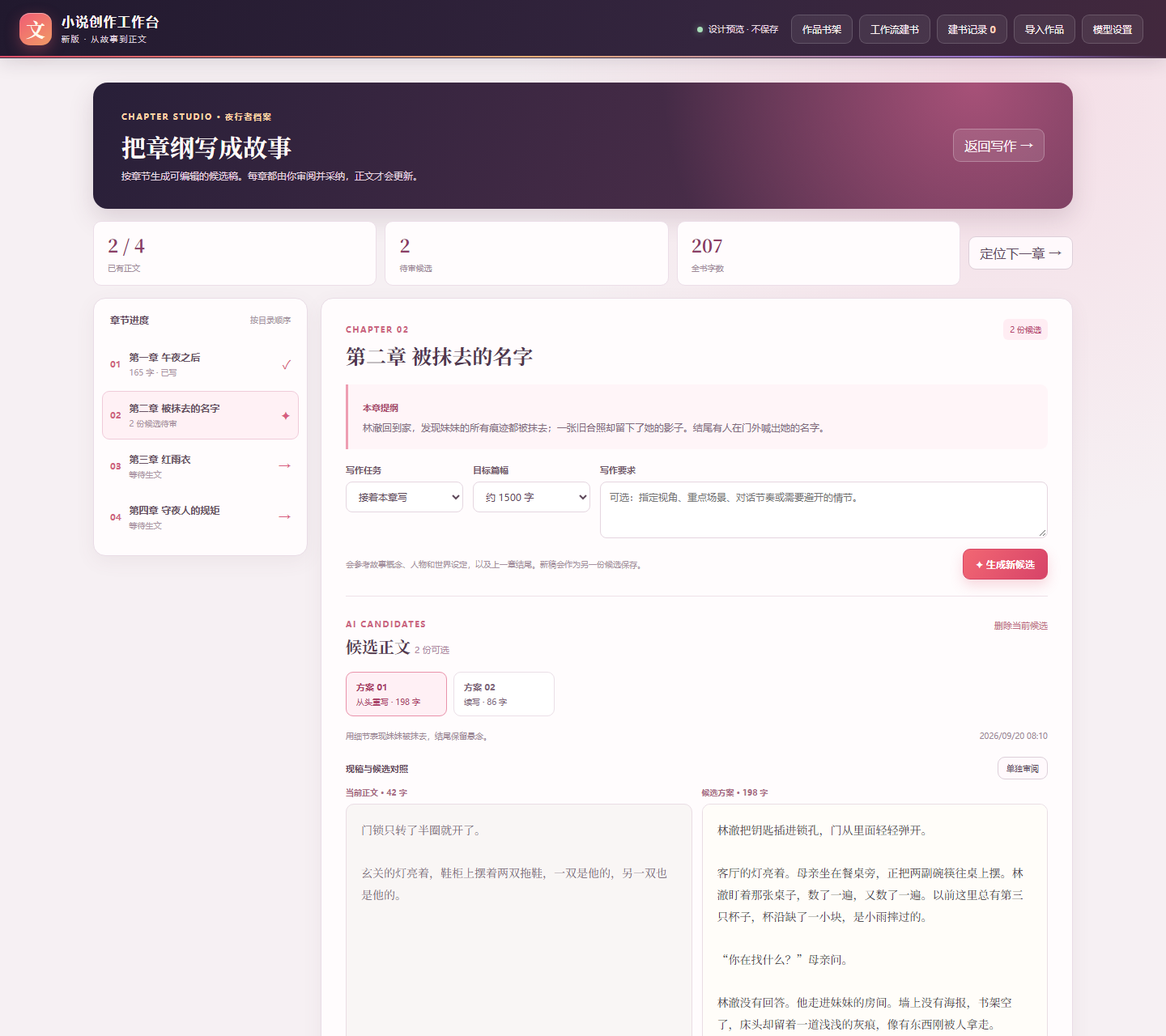
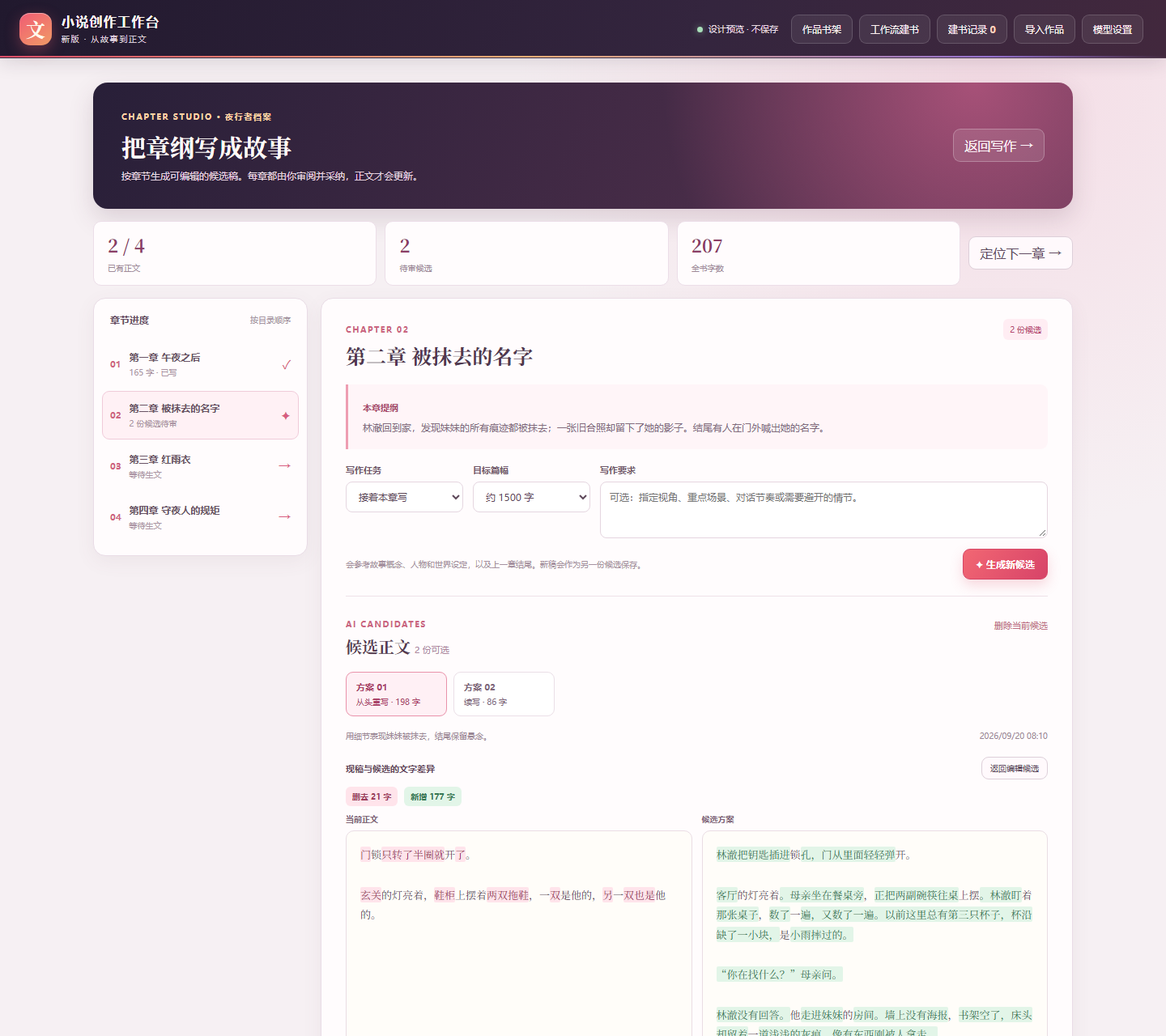
feat: highlight prose and history text changes

Changed region(s): [[0.5938, 0.75, 0.9062, 1.0], [0.2812, 0.7188, 0.5625, 0.875], [0.8438, 0.7188, 0.9062, 0.75]]

diff --git a/src/style.css b/src/style.css
@@ -555,7 +555,7 @@ button:focus-visible, input:focus-visible, textarea:focus-visible, select:focus-
 }
 
 /* 章节版本：左侧选版本，右侧只读预览与安全恢复。 */
-.history-modal { width: min(960px, 100%); }
+.history-modal { width: min(1120px, 100%); }
 .history-toolbar { display: flex; align-items: center; justify-content: space-between; gap: 12px; padding: 12px 0 15px; border-bottom: 1px solid #ecdfeb; }
 .history-toolbar strong { overflow: hidden; color: #583b52; font-size: 14px; text-overflow: ellipsis; white-space: nowrap; }
 .history-toolbar button { flex: none; font-size: 11px; }
@@ -570,9 +570,11 @@ button:focus-visible, input:focus-visible, textarea:focus-visible, select:focus-
 .history-list button small { color: #ad91a4; font-size: 10px; font-weight: 400; }
 .history-list time { display: block; margin-top: 7px; color: #9c8998; font-size: 10px; }
 .history-preview { display: flex; min-width: 0; flex-direction: column; }
-.history-preview > div:first-child { display: flex; align-items: center; justify-content: space-between; gap: 9px; margin-bottom: 10px; }
+.history-preview-head { display: flex; align-items: center; justify-content: space-between; gap: 9px; margin-bottom: 10px; }
+.history-preview-head > div { display: flex; align-items: center; gap: 9px; }
+.history-preview-head button { padding: 6px 9px; font-size: 10px; white-space: nowrap; }
 .history-preview strong { overflow: hidden; color: #4f354b; font-size: 13px; text-overflow: ellipsis; white-space: nowrap; }
-.history-preview span { color: #a595a1; font-size: 10px; white-space: nowrap; }
+.history-preview-head span { color: #a595a1; font-size: 10px; white-space: nowrap; }
 .history-preview textarea { width: 100%; min-height: 280px; flex: 1; padding: 17px; border: 1px solid #eadde6; border-radius: 9px; color: #514551; background: #fffdfd; font-family: "Noto Serif SC", "Songti SC", SimSun, serif; font-size: 13px; line-height: 1.9; resize: none; }
 .history-preview-actions { display: flex; align-items: center; justify-content: space-between; gap: 8px; margin-top: 10px; }
 .history-preview-actions button { flex: none; font-size: 11px; }
@@ -581,6 +583,8 @@ button:focus-visible, input:focus-visible, textarea:focus-visible, select:focus-
   .history-list { display: flex; gap: 7px; max-height: none; overflow-x: auto; }
   .history-list button { min-width: 150px; }
   .history-preview textarea { min-height: 250px; }
+  .history-preview-head { align-items: start; flex-direction: column; }
+  .history-preview-head > div { justify-content: space-between; width: 100%; }
   .history-preview-actions span { white-space: normal; }
 }
 
@@ -760,12 +764,8 @@ button:focus-visible, input:focus-visible, textarea:focus-visible, select:focus-
 .production-compare-toolbar { display: flex; align-items: center; justify-content: space-between; gap: 12px; margin: 18px 0 9px; }
 .production-compare-toolbar strong { color: #674b60; font-size: 11px; }
 .production-compare-toolbar button { padding: 6px 10px; font-size: 10px; }
-.production-compare { display: grid; grid-template-columns: 1fr; gap: 12px; }
-.production-compare.comparing { grid-template-columns: repeat(2, minmax(0, 1fr)); }
-.production-text-panel { min-width: 0; }
-.production-text-panel > span { display: block; margin: 0 0 7px; color: #a86c84; font-size: 10px; font-weight: 700; }
-.production-text-panel textarea { width: 100%; min-height: 310px; padding: 18px; border: 1px solid #eadde4; border-radius: 10px; color: #443943; background: var(--paper); font-family: "Noto Serif SC", "Songti SC", SimSun, serif; font-size: 14px; line-height: 1.9; resize: vertical; }
-.production-text-panel textarea[readonly] { color: #766874; background: #f9f6f5; }
+.production-edit label { display: block; margin: 0 0 7px; color: #a86c84; font-size: 10px; font-weight: 700; }
+.production-edit textarea { width: 100%; min-height: 310px; padding: 18px; border: 1px solid #eadde4; border-radius: 10px; color: #443943; background: var(--paper); font-family: "Noto Serif SC", "Songti SC", SimSun, serif; font-size: 14px; line-height: 1.9; resize: vertical; }
 .production-adopt { display: flex; align-items: end; justify-content: space-between; gap: 12px; margin-top: 12px; }
 .production-adopt label { width: min(240px, 55%); }
 .production-adopt button { flex: none; font-size: 12px; }
@@ -774,4 +774,17 @@ button:focus-visible, input:focus-visible, textarea:focus-visible, select:focus-
 .production-existing summary { color: #965c78; font-size: 11px; font-weight: 700; cursor: pointer; }
 .production-existing details > div { max-height: 360px; overflow-y: auto; margin-top: 10px; padding: 20px; border: 1px solid #eee4e9; border-radius: 9px; color: #6f5e69; background: #fff; font-family: "Noto Serif SC", "Songti SC", SimSun, serif; font-size: 13px; line-height: 2; white-space: pre-wrap; }
 @media (max-width: 800px) { .production-layout { grid-template-columns: 1fr; } .production-chapters { display: flex; overflow-x: auto; } .production-list-title { min-width: 90px; flex-direction: column; align-items: start; justify-content: center; } .production-chapters > button { width: 175px; flex: none; } }
-@media (max-width: 600px) { .production-shell { width: calc(100% - 22px); padding-top: 12px; } .production-hero { align-items: start; flex-direction: column; padding: 22px; } .production-hero h1 { font-size: 25px; } .production-summary { grid-template-columns: repeat(3, 1fr); gap: 5px; } .production-summary > div { padding: 10px; } .production-summary strong { font-size: 17px; } .production-summary button { grid-column: 1 / -1; } .production-stage { padding: 20px 15px; } .production-fields { grid-template-columns: 1fr; } .production-generate { align-items: stretch; flex-direction: column; } .production-compare.comparing { grid-template-columns: 1fr; } .production-adopt { align-items: stretch; flex-direction: column; } .production-adopt label { width: 100%; } }
+@media (max-width: 600px) { .production-shell { width: calc(100% - 22px); padding-top: 12px; } .production-hero { align-items: start; flex-direction: column; padding: 22px; } .production-hero h1 { font-size: 25px; } .production-summary { grid-template-columns: repeat(3, 1fr); gap: 5px; } .production-summary > div { padding: 10px; } .production-summary strong { font-size: 17px; } .production-summary button { grid-column: 1 / -1; } .production-stage { padding: 20px 15px; } .production-fields { grid-template-columns: 1fr; } .production-generate { align-items: stretch; flex-direction: column; } .production-adopt { align-items: stretch; flex-direction: column; } .production-adopt label { width: 100%; } }
+
+/* 候选稿和历史稿共用的只读文字差异视图。 */
+.text-diff-legend { display: flex; align-items: center; flex-wrap: wrap; gap: 8px; margin: 0 0 9px; }
+.text-diff-legend span { padding: 5px 8px; border-radius: 6px; font-size: 10px; font-weight: 700; }
+.text-diff-legend small { margin-left: auto; color: #9d8191; font-size: 10px; }
+.text-diff-removed { color: #9c3d5b; background: #ffe4eb; }
+.text-diff-added { color: #357752; background: #e2f5e8; }
+.text-diff-columns { display: grid; grid-template-columns: repeat(2, minmax(0, 1fr)); gap: 12px; }
+.text-diff-columns section { min-width: 0; }
+.text-diff-columns strong { display: block; margin: 0 0 7px; color: #826678; font-size: 10px; }
+.text-diff-copy { min-height: 300px; max-height: 54vh; overflow: auto; padding: 17px; border: 1px solid #eadde4; border-radius: 10px; color: #594a58; background: var(--paper); font-family: "Noto Serif SC", "Songti SC", SimSun, serif; font-size: 13px; line-height: 1.9; white-space: pre-wrap; overflow-wrap: anywhere; }
+.text-diff-copy .text-diff-removed, .text-diff-copy .text-diff-added { border-radius: 2px; box-decoration-break: clone; -webkit-box-decoration-break: clone; }
+@media (max-width: 700px) { .text-diff-columns { grid-template-columns: 1fr; } .text-diff-copy { min-height: 170px; max-height: 260px; } }

diff --git a/src/App.vue b/src/App.vue
@@ -84,8 +84,9 @@
               <div class="production-variants" role="tablist" aria-label="正文候选版本"><button v-for="(candidate, index) in chapter.proseCandidates" :key="candidate.id" type="button" role="tab" :aria-selected="selectedProseCandidate.id === candidate.id" :class="{ active: selectedProseCandidate.id === candidate.id }" @click="selectProductionCandidate(candidate.id)"><strong>方案 {{ String(index + 1).padStart(2, '0') }}</strong><span>{{ candidate.kind === 'rewrite' ? '从头重写' : '续写' }} · {{ countWords(candidate.content) }} 字</span></button></div>
               <div class="production-candidate-meta"><span>{{ selectedProseCandidate.instruction || '没有额外写作要求' }}</span><time :datetime="selectedProseCandidate.createdAt">{{ formatVersionTime(selectedProseCandidate.createdAt) }}</time></div>
               <p v-if="selectedProseCandidate.baseUpdatedAt !== chapter.updatedAt" class="production-warning">生成后本章又有修改，请确认候选与现稿衔接。</p>
-              <div class="production-compare-toolbar"><strong>{{ compareProduction && chapter.content.trim() ? '现稿与候选对照' : '编辑候选正文' }}</strong><button v-if="chapter.content.trim()" class="secondary" @click="compareProduction = !compareProduction">{{ compareProduction ? '单独审阅' : '对照现稿' }}</button></div>
-              <div class="production-compare" :class="{ comparing: compareProduction && chapter.content.trim() }"><div v-if="compareProduction && chapter.content.trim()" class="production-text-panel"><span>当前正文 · {{ countWords(chapter.content) }} 字</span><textarea :value="chapter.content" aria-label="当前正文（只读）" readonly /></div><div class="production-text-panel"><span>候选方案 · {{ countWords(selectedProseCandidate.content) }} 字</span><textarea v-model="selectedProseCandidate.content" aria-label="可编辑的正文候选" spellcheck="false" /></div></div>
+              <div class="production-compare-toolbar"><strong>{{ compareProduction && chapter.content.trim() ? '现稿与候选的文字差异' : '编辑候选正文' }}</strong><button v-if="chapter.content.trim()" class="secondary" @click="compareProduction = !compareProduction">{{ compareProduction ? '返回编辑候选' : '查看文字差异' }}</button></div>
+              <TextDiff v-if="compareProduction && chapter.content.trim()" :before="chapter.content" :after="selectedProseCandidate.content" before-label="当前正文" after-label="候选方案" />
+              <div v-else class="production-edit"><label for="production-candidate-text">候选方案 · {{ countWords(selectedProseCandidate.content) }} 字</label><textarea id="production-candidate-text" v-model="selectedProseCandidate.content" aria-label="可编辑的正文候选" spellcheck="false" /></div>
               <div class="production-adopt"><label>写入方式<select v-model="productionInsert"><option value="append">追加到本章末尾</option><option value="replace">替换本章正文</option></select></label><button class="primary" :disabled="!selectedProseCandidate.content.trim()" @click="adoptProduction">采纳这份候选 →</button></div><p>采纳前不会改动正文。已有正文会先存入版本历史；其他候选继续保留。</p>
             </div>
             <div v-if="chapter.content.trim()" class="production-existing"><details><summary>查看当前正文 · {{ countWords(chapter.content) }} 字</summary><div>{{ chapter.content }}</div></details></div>
@@ -282,7 +283,7 @@
               <time :datetime="version.savedAt">{{ formatVersionTime(version.savedAt) }}</time>
             </button>
           </div>
-          <div v-if="selectedVersion" class="history-preview"><div><strong>{{ selectedVersion.title }}</strong><span>{{ formatVersionTime(selectedVersion.savedAt) }}</span></div><textarea :value="selectedVersion.content" readonly aria-label="历史版本正文" /><div class="history-preview-actions"><span>恢复前会先保存当前稿</span><button class="primary" @click="restoreVersion">恢复这个版本</button></div></div>
+          <div v-if="selectedVersion" class="history-preview"><div class="history-preview-head"><strong>{{ selectedVersion.title }}</strong><div><span>{{ formatVersionTime(selectedVersion.savedAt) }}</span><button class="secondary" @click="historyDiff = !historyDiff">{{ historyDiff ? '查看历史全文' : '与当前稿对比' }}</button></div></div><TextDiff v-if="historyDiff" :before="selectedVersion.content" :after="chapter.content" before-label="历史版本" after-label="当前正文" /><textarea v-else :value="selectedVersion.content" readonly aria-label="历史版本正文" /><div class="history-preview-actions"><span>恢复前会先保存当前稿</span><button class="primary" @click="restoreVersion">恢复这个版本</button></div></div>
         </div>
       </section>
     </div>
@@ -300,6 +301,7 @@
 import { computed, nextTick, onMounted, onBeforeUnmount, ref, watch } from 'vue'
 import { generateChapterProse, generateDraft, requestChatCompletion } from './ai'
 import { designFixture } from './design-fixture'
+import TextDiff from './TextDiff.vue'
 import { createBook, importBookJson, loadData, now, recordChapterVersion, saveData, uid, type Book, type ChatEntry, type ChapterVersion, type LoreMode, type Mode } from './storage'
 import { buildBookFromWorkflow, createWorkflowRecord, emptyWorkflow, exportWorkflowArchive, importWorkflowArchive, loadWorkflowArchive, parseChapterPlan, saveWorkflowArchive, workflowPrompt, type WorkflowArchive, type WorkflowDraft, type WorkflowField, type WorkflowRecord } from './workflow'
 
@@ -377,8 +379,9 @@ const shelfBooks = computed(() => {
   const items = data.value.books.filter(item => !query || `${item.title} ${item.premise}`.toLocaleLowerCase().includes(query))
   return [...items].sort((a, b) => shelfSort.value === 'title' ? a.title.localeCompare(b.title, 'zh-CN') : latestUpdate(b).localeCompare(latestUpdate(a)))
 })
-const showHistory = ref(false)
-const selectedVersionId = ref('')
+const showHistory = ref(designPreview && previewPanel === 'history-diff')
+const selectedVersionId = ref(designPreview && previewPanel === 'history-diff' ? data.value.books[0]?.chapters[0]?.history?.[0]?.id || '' : '')
+const historyDiff = ref(designPreview && previewPanel === 'history-diff')
 const historyNotice = ref('')
 const selectedVersion = computed(() => chapter.value?.history?.find(item => item.id === selectedVersionId.value))
 const versionSourceLabel = (source: ChapterVersion['source']) => ({ manual: '手动留存', ai: 'AI 写入前', restore: '恢复前备份' })[source]
@@ -712,6 +715,7 @@ function touchChapter() {
 }
 function openHistory() {
   selectedVersionId.value = chapter.value?.history?.[0]?.id || ''
+  historyDiff.value = false
   historyNotice.value = ''
   showHistory.value = true
 }

diff --git a/src/text-diff.ts b/src/text-diff.ts
@@ -1,0 +1,119 @@
+export interface DiffSegment {
+  kind: 'same' | 'added' | 'removed'
+  text: string
+}
+
+export interface TextDiffResult {
+  before: DiffSegment[]
+  after: DiffSegment[]
+  addedChars: number
+  removedChars: number
+  coarse: boolean
+}
+
+interface DiffState { before: DiffSegment[]; after: DiffSegment[]; coarse: boolean }
+const MAX_CHARACTER_CELLS = 1_500_000
+const MAX_LINE_CELLS = 200_000
+
+function append(segments: DiffSegment[], kind: DiffSegment['kind'], text: string): void {
+  if (!text) return
+  const last = segments[segments.length - 1]
+  if (last?.kind === kind) last.text += text
+  else segments.push({ kind, text })
+}
+
+function same(state: DiffState, text: string): void {
+  append(state.before, 'same', text)
+  append(state.after, 'same', text)
+}
+
+function exactCharacters(before: string[], after: string[], state: DiffState): void {
+  const width = after.length + 1
+  const matrix = new Uint32Array((before.length + 1) * width)
+  for (let i = before.length - 1; i >= 0; i--) {
+    for (let j = after.length - 1; j >= 0; j--) {
+      matrix[i * width + j] = before[i] === after[j]
+        ? matrix[(i + 1) * width + j + 1] + 1
+        : Math.max(matrix[(i + 1) * width + j], matrix[i * width + j + 1])
+    }
+  }
+  let i = 0, j = 0
+  while (i < before.length && j < after.length) {
+    if (before[i] === after[j]) { same(state, before[i]); i++; j++ }
+    else if (matrix[(i + 1) * width + j] >= matrix[i * width + j + 1]) append(state.before, 'removed', before[i++])
+    else append(state.after, 'added', after[j++])
+  }
+  while (i < before.length) append(state.before, 'removed', before[i++])
+  while (j < after.length) append(state.after, 'added', after[j++])
+}
+
+/** 大稿优先寻找完全相同的行作锚点，只细比锚点之间的文字。 */
+function lineAnchors(before: string[], after: string[]): Array<[number, number]> {
+  const width = after.length + 1
+  const matrix = new Uint32Array((before.length + 1) * width)
+  for (let i = before.length - 1; i >= 0; i--) {
+    for (let j = after.length - 1; j >= 0; j--) {
+      matrix[i * width + j] = before[i] === after[j]
+        ? matrix[(i + 1) * width + j + 1] + 1
+        : Math.max(matrix[(i + 1) * width + j], matrix[i * width + j + 1])
+    }
+  }
+  const anchors: Array<[number, number]> = []
+  let i = 0, j = 0
+  while (i < before.length && j < after.length) {
+    if (before[i] === after[j]) { anchors.push([i, j]); i++; j++ }
+    else if (matrix[(i + 1) * width + j] >= matrix[i * width + j + 1]) i++
+    else j++
+  }
+  return anchors
+}
+
+function compare(beforeText: string, afterText: string, state: DiffState, depth = 0): void {
+  if (beforeText === afterText) { same(state, beforeText); return }
+  const before = Array.from(beforeText)
+  const after = Array.from(afterText)
+  let prefix = 0
+  while (prefix < before.length && prefix < after.length && before[prefix] === after[prefix]) prefix++
+  let suffix = 0
+  while (suffix < before.length - prefix && suffix < after.length - prefix &&
+    before[before.length - suffix - 1] === after[after.length - suffix - 1]) suffix++
+  same(state, before.slice(0, prefix).join(''))
+  const left = before.slice(prefix, before.length - suffix)
+  const right = after.slice(prefix, after.length - suffix)
+  if (!left.length) append(state.after, 'added', right.join(''))
+  else if (!right.length) append(state.before, 'removed', left.join(''))
+  else if (left.length * right.length <= MAX_CHARACTER_CELLS) exactCharacters(left, right, state)
+  else {
+    const leftText = left.join(''), rightText = right.join('')
+    const leftLines = leftText.match(/[^\n]*\n|[^\n]+$/g) || []
+    const rightLines = rightText.match(/[^\n]*\n|[^\n]+$/g) || []
+    const anchors = depth < 3 && leftLines.length * rightLines.length <= MAX_LINE_CELLS &&
+      (leftLines.length > 1 || rightLines.length > 1) ? lineAnchors(leftLines, rightLines) : []
+    if (anchors.length) {
+      let leftStart = 0, rightStart = 0
+      for (const [leftIndex, rightIndex] of anchors) {
+        compare(leftLines.slice(leftStart, leftIndex).join(''), rightLines.slice(rightStart, rightIndex).join(''), state, depth + 1)
+        same(state, leftLines[leftIndex])
+        leftStart = leftIndex + 1
+        rightStart = rightIndex + 1
+      }
+      compare(leftLines.slice(leftStart).join(''), rightLines.slice(rightStart).join(''), state, depth + 1)
+    } else {
+      append(state.before, 'removed', leftText)
+      append(state.after, 'added', rightText)
+      state.coarse = true
+    }
+  }
+  same(state, before.slice(before.length - suffix).join(''))
+}
+
+/** 按 Unicode 字符比较；超大改写在相同段落间细比，其余显示整段变化。 */
+export function diffText(before: string, after: string): TextDiffResult {
+  const state: DiffState = { before: [], after: [], coarse: false }
+  compare(before, after, state)
+  const count = (text: string) => Array.from(text.replace(/\s/g, '')).length
+  return { before: state.before, after: state.after,
+    addedChars: state.after.reduce((sum, item) => sum + (item.kind === 'added' ? count(item.text) : 0), 0),
+    removedChars: state.before.reduce((sum, item) => sum + (item.kind === 'removed' ? count(item.text) : 0), 0),
+    coarse: state.coarse }
+}

diff --git a/src/design-fixture.ts b/src/design-fixture.ts
@@ -16,6 +16,7 @@ export function designFixture(): ProjectData {
           title: '第一章 午夜之后',
           content: '凌晨零点，城市的钟声敲了十三下。\n\n林澈停在便利店门口，手里的热咖啡忽然凉了。街对面的人群仍在走动，仿佛谁都没有听见多出来的那一声。只有他看见，路灯下那个穿红雨衣的女孩抬起头，朝他做了个噤声的手势。\n\n下一秒，手机亮起。一条没有署名的短信写着：别回家。你妹妹已经不在那里了。\n\n他拨出那个熟悉的号码。提示音响了很久，接通的人却问：“你找谁？”',
           updatedAt: '2026-09-20T00:00:00.000Z',
+          history: [{ id: 'design-version-1', title: '第一章 午夜之后', content: '凌晨零点，城市的钟声敲了十二下。\n\n林澈停在便利店门口，手里的咖啡凉了。街对面的人群仍在走动，仿佛谁都没有听见钟声。路灯下那个穿红雨衣的女孩抬起头，朝他做了个噤声的手势。\n\n手机亮起。一条短信写着：别回家。\n\n他拨出那个熟悉的号码。提示音响了很久，接通的人却问：“你找谁？”', savedAt: '2026-09-19T22:30:00.000Z', source: 'manual' }],
         },
         { id: 'design-chapter-2', title: '第二章 被抹去的名字', outline: '林澈回到家，发现妹妹的所有痕迹都被抹去；一张旧合照却留下了她的影子。结尾有人在门外喊出她的名字。', content: '门锁只转了半圈就开了。\n\n玄关的灯亮着，鞋柜上摆着两双拖鞋，一双是他的，另一双也是他的。', updatedAt: '2026-09-20T00:00:00.000Z', proseCandidates: [
           { id: 'design-candidate-1', kind: 'rewrite', content: '林澈把钥匙插进锁孔，门从里面轻轻弹开。\n\n客厅的灯亮着。母亲坐在餐桌旁，正把两副碗筷往桌上摆。林澈盯着那张桌子，数了一遍，又数了一遍。以前这里总有第三只杯子，杯沿缺了一小块，是小雨摔过的。\n\n“你在找什么？”母亲问。\n\n林澈没有回答。他走进妹妹的房间。墙上没有海报，书架空了，床头却留着一道浅浅的灰痕，像有东西刚被人拿走。\n\n他翻出抽屉里的旧相册。合照上只站着他和母亲，可照片右下角，一只小小的手正攥着他的衣角。', instruction: '用细节表现妹妹被抹去，结尾保留悬念。', createdAt: '2026-09-20T00:10:00.000Z', baseUpdatedAt: '2026-09-20T00:00:00.000Z' },

diff --git a/src/TextDiff.vue b/src/TextDiff.vue
@@ -1,0 +1,17 @@
+<template>
+  <div class="text-diff">
+    <div class="text-diff-legend"><span class="text-diff-removed">删去 {{ result.removedChars }} 字</span><span class="text-diff-added">新增 {{ result.addedChars }} 字</span><small v-if="result.coarse">改动较大的段落按整段标记</small></div>
+    <div class="text-diff-columns">
+      <section><strong>{{ beforeLabel }}</strong><div class="text-diff-copy" :aria-label="beforeLabel"><span v-for="(part, index) in result.before" :key="index" :class="part.kind === 'removed' ? 'text-diff-removed' : ''">{{ part.text }}</span></div></section>
+      <section><strong>{{ afterLabel }}</strong><div class="text-diff-copy" :aria-label="afterLabel"><span v-for="(part, index) in result.after" :key="index" :class="part.kind === 'added' ? 'text-diff-added' : ''">{{ part.text }}</span></div></section>
+    </div>
+  </div>
+</template>
+
+<script setup lang="ts">
+import { computed } from 'vue'
+import { diffText } from './text-diff'
+
+const props = defineProps<{ before: string; after: string; beforeLabel: string; afterLabel: string }>()
+const result = computed(() => diffText(props.before, props.after))
+</script>

diff --git a/README.md b/README.md
@@ -6,9 +6,9 @@
 
 - 完整作品书架：搜索和排序作品、查看章节与字数概览、一键回到最近写作的章节。支持新建、切换、删除作品；新建、切换、删除章节；编辑正文与章节标题；导入和导出新版 JSON 作品文件。
 - 故事概念，以及可在写作页右侧切换查看的作品资料库（世界观、人物设定、时间线、剧情规划）；正文与资料自动保存在本机浏览器。
-- 章节版本历史：手动留存当前稿，AI 写入正文前自动保存原稿；可以预览和恢复，历史随作品 JSON 导出。
+- 章节版本历史：手动留存当前稿，AI 写入正文前自动保存原稿；可以预览、与当前稿对比文字差异和恢复，历史随作品 JSON 导出。
 - 四步工作流建书：创作方向、书名与章节规划、世界与人物、确认建书。AI 内容先预览再采纳；支持多份草稿、建书历史、继续编辑、复制方案及 JSON 导入导出，建书后自动生成章节提纲与作品资料。
-- 逐章生文：按章节提纲、设定和上一章结尾生成正文候选；可以选择续写或从头重写，同章保留多份候选，对照现稿、修改、删除并择优采纳。原稿自动进入版本历史，未采纳候选随作品 JSON 备份。
+- 逐章生文：按章节提纲、设定和上一章结尾生成正文候选；可以选择续写或从头重写，同章保留多份候选，查看与现稿的文字差异、修改、删除并择优采纳。原稿自动进入版本历史，未采纳候选随作品 JSON 备份。
 - 配置兼容 Chat Completions 的模型，按“正文 / 世界观 / 人物 / 剧情”生成内容。
 - AI 结果先预览修改，再采纳到章节或设定库；作品可以导出为 JSON。
 
@@ -18,7 +18,7 @@
 
 ## 界面设计预览
 
-新版采用“连载创作室”视觉方案，规则与页面结构见 [UI 设计说明](./UI_DESIGN.md)。开发服务启动后，访问 `http://127.0.0.1:6790/?ui-preview=1` 可查看带样例内容的写作页；加上 `&panel=shelf` 可查看作品书架，`&panel=workflow` 可查看建书流程，`&panel=workflow-history` 可查看建书记录，`&panel=production` 可查看逐章生文，`&panel=production-compare` 可查看候选与现稿对照，`&panel=reference` 可查看作品资料，`&panel=preview` 可查看 AI 内容采纳弹窗。样例只在开发环境显示，不保存到本地作品。
+新版采用“连载创作室”视觉方案，规则与页面结构见 [UI 设计说明](./UI_DESIGN.md)。开发服务启动后，访问 `http://127.0.0.1:6790/?ui-preview=1` 可查看带样例内容的写作页；加上 `&panel=shelf` 可查看作品书架，`&panel=workflow` 可查看建书流程，`&panel=workflow-history` 可查看建书记录，`&panel=production` 可查看逐章生文，`&panel=production-compare` 可查看候选与现稿的文字差异，`&panel=history-diff` 可查看历史版本差异，`&panel=reference` 可查看作品资料，`&panel=preview` 可查看 AI 内容采纳弹窗。样例只在开发环境显示，不保存到本地作品。
 
 ## Agnes 3.0 Flash
 
@@ -29,4 +29,4 @@
 - 第一版是浏览器版；还没有 Tauri 桌面打包。数据保存在当前浏览器的 localStorage，清理站点数据前请分别导出作品和建书记录。建书记录备份不包含小说正文，导入完成记录后需单独导入对应作品。
 - 模型在浏览器中直连服务商。若服务商不允许网页跨域访问，需在后续桌面版接入原生网络层。当前未对 Agnes 做真实账号调用验证。
 - 此版本暂不读取旧版数据库，避免误改旧版作品；导出 JSON 是新版格式。
-- 建书工作流已实现可编辑的四步流程与多份记录；逐章生文目前需要每章手动生成和采纳，尚无无人值守批量任务。可切换多份候选并对照现稿，但尚无逐字差异标记。旧版的榜单、拆书、每日写作统计与图片生成仍未实现。当前章节历史保留最近 30 个版本。
+- 建书工作流已实现可编辑的四步流程与多份记录；逐章生文目前需要每章手动生成和采纳，尚无无人值守批量任务。文字差异会高亮小范围修改；对比超长且大幅改写的段落时，可能按整段标记。旧版的榜单、拆书、每日写作统计与图片生成仍未实现。当前章节历史保留最近 30 个版本。

diff --git a/UI_DESIGN.md b/UI_DESIGN.md
@@ -37,7 +37,7 @@
 浮层：资料集中编辑、章节版本预览与恢复、模型设置、生成内容预览和采纳
 ```
 
-`?ui-preview=1` 是开发环境专用的界面样例，展示一部虚构作品、四章目录和一段 AI 对话，不会读写用户作品。添加 `&panel=shelf` 查看作品书架；添加 `&panel=workflow` 查看建书流程；添加 `&panel=workflow-history` 查看带样例草稿的建书记录；添加 `&panel=production` 查看逐章生文审阅页；添加 `&panel=production-compare` 查看候选与现稿对照；添加 `&panel=reference` 查看作品资料栏；添加 `&panel=preview` 查看“预览并采纳”弹窗。直接打开普通地址进入真实本地数据。
+`?ui-preview=1` 是开发环境专用的界面样例，展示一部虚构作品、四章目录和一段 AI 对话，不会读写用户作品。添加 `&panel=shelf` 查看作品书架；添加 `&panel=workflow` 查看建书流程；添加 `&panel=workflow-history` 查看带样例草稿的建书记录；添加 `&panel=production` 查看逐章生文审阅页；添加 `&panel=production-compare` 查看候选与现稿的文字差异；添加 `&panel=history-diff` 查看历史版本差异；添加 `&panel=reference` 查看作品资料栏；添加 `&panel=preview` 查看“预览并采纳”弹窗。直接打开普通地址进入真实本地数据。
 
 ## 交互原则
 
@@ -49,7 +49,7 @@
 
 ## 待设计的页面
 
-现阶段仍需继续设计逐字版本比较、每日写作统计、移动端写作布局。逐章生文已支持多份候选切换和现稿并排审阅；建书流程已有四步草稿、AI 候选预览、章节提纲生成；建书记录已支持多草稿与备份；章节历史已有手动快照、AI 写入前快照与安全恢复；作品书架已可搜索、排序并进入最近写作章节；时间线已有基础条目与故事内时间字段，完整事件关联和图形时间轴留待下一阶段。当前窄屏布局是可用的基础适配，尚未做移动端专门交互。
+现阶段仍需继续设计每日写作统计、移动端写作布局。逐章生文已支持多份候选切换和文字差异审阅；章节历史已支持原稿与现稿的增删高亮；建书流程已有四步草稿、AI 候选预览、章节提纲生成；建书记录已支持多草稿与备份；作品书架已可搜索、排序并进入最近写作章节；时间线已有基础条目与故事内时间字段，完整事件关联和图形时间轴留待下一阶段。当前窄屏布局是可用的基础适配，尚未做移动端专门交互。
 
 ## 全产品页面规划
 
@@ -77,6 +77,7 @@
 - [建书记录](./design/workflow-history.png)
 - [逐章生文](./design/production-desktop.png)
 - [候选稿与现稿对照](./design/production-compare.png)
+- [历史版本文字差异](./design/history-diff.png)
 - [窄屏建书记录](./design/workflow-history-mobile.png)
 - [空书架](./design/welcome-final.png)
 - [AI 预览并采纳](./design/adopt-preview.png)

diff --git a/FEATURE_INVENTORY.md b/FEATURE_INVENTORY.md
@@ -104,5 +104,5 @@
 
 ## 新版第一阶段的实际范围
 
-已实现：独立 Vue 项目、作品书架与章节管理、正文编辑、本机自动保存、故事概念与设定库、四类 AI 生成、预览后采纳、四步建书工作流、多草稿与建书历史、基础章节版本历史、逐章生成正文候选、续写与重写、多候选保存及现稿对照、新版 JSON 作品及建书记录导入导出。未实现：旧版数据迁移、桌面容器、无人值守批量生文、榜单、拆书、每日统计、图片生成和逐字差异对比。Agnes 已按官方接口文档加入预设与连接测试，真实账号调用仍待验证。
+已实现：独立 Vue 项目、作品书架与章节管理、正文编辑、本机自动保存、故事概念与设定库、四类 AI 生成、预览后采纳、四步建书工作流、多草稿与建书历史、章节版本历史及差异高亮、逐章生成正文候选、续写与重写、多候选保存及现稿差异对照、新版 JSON 作品及建书记录导入导出。未实现：旧版数据迁移、桌面容器、无人值守批量生文、榜单、拆书、每日统计和图片生成。超长且大幅改写的段落会整段标记，暂不提供语义级对齐。Agnes 已按官方接口文档加入预设与连接测试，真实账号调用仍待验证。
 
